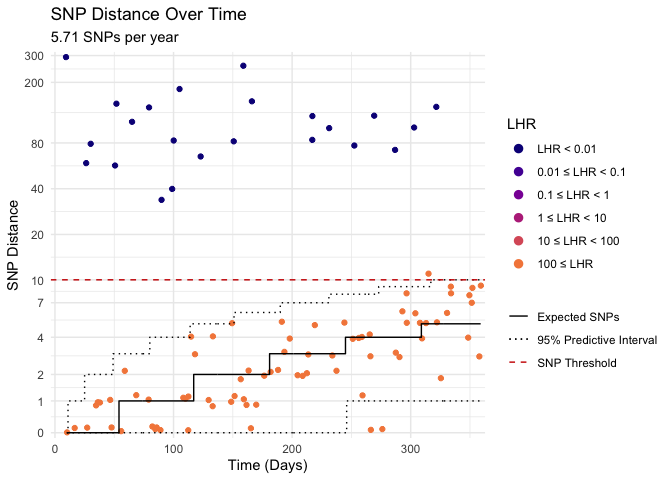
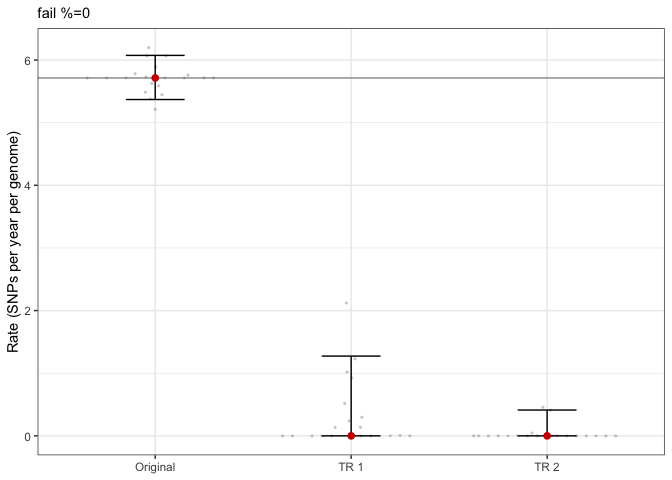
updated readme

diff --git a/README.md b/README.md
@@ -39,7 +39,89 @@ output, or from a distance matrix. Either provide an R object or
 filepath to the respective function and the output will be an R object
 ready for inputting into MxSure. These examples only show loading in one
 dataset for each method however a mixed and distant dataset is required
-for MxSure.
+for MxSure. The most practical thing to do is process all of your data
+with these functions and then subset the resulting dataframe into sample
+pairs that would be enriched for related strains (e.g. same person,
+transmission clusters of interest, same site etc.) and another that
+would be enriched for unrelated strains (e.g different people ideally
+geographically separated). This choice is left to the user.
+
+### distance matrix
+
+This function allows for a sampling date table to be added (linking
+sample ID’s to dates) which automates calculation of sampling time
+differences.
+
+note: this function does not allow for ‘sites considered’ or equivalent;
+this will need to be inputed manually if desired
+
+``` r
+distmat_example_path <- system.file("extdata", "example_distance_matrix.csv", package = "mxsure")
+sample_dates <- readr::read_csv(system.file("extdata", "example_sampling_dates.csv", package = "mxsure"))
+#> Rows: 30 Columns: 2
+#> ── Column specification ────────────────────────────────────────────────────────
+#> Delimiter: ","
+#> chr  (1): sample_id
+#> date (1): date
+#> 
+#> ℹ Use `spec()` to retrieve the full column specification for this data.
+#> ℹ Specify the column types or set `show_col_types = FALSE` to quiet this message.
+mxsure_input_distmat <-  mxsure_input_distmatrix(file_path=distmat_example_path, dates=sample_dates, dates_sample_col = "sample_id", dates_date_col = "date")
+head(mxsure_input_distmat)
+#>    sampleA sampleB snp_dist time_dist
+#>     <char>  <char>    <int>     <num>
+#> 1: sample2 sample1      467         6
+#> 2: sample3 sample1      183        12
+#> 3: sample4 sample1       18        18
+#> 4: sample5 sample1      199        24
+#> 5: sample6 sample1      430        30
+#> 6: sample7 sample1      310        36
+```
+
+### Phylogenetic Tree
+
+This function takes a phylogenetic tree and produces the required input
+for MxSure. Optionally a vector of tip dates can be included to automate
+calculation of sampling time differences and a vector of individual ID’s
+for each tip can be provided to identify which comparisons are from the
+same person. This potentially aides the subsetting required for MxSure
+to function.
+
+note: this function does not allow for ‘sites considered’ or equivalent;
+this will need to be inputed manually if desired
+
+``` r
+#loading example data provided with package
+tree_example_path <- system.file("extdata", "example_phylo_tree.tree", package = "mxsure")
+tip_dates <- readr::read_csv(system.file("extdata", "example_tip_dates.csv", package = "mxsure"))
+#> Rows: 200 Columns: 1
+#> ── Column specification ────────────────────────────────────────────────────────
+#> Delimiter: ","
+#> date (1): example_tipdates
+#> 
+#> ℹ Use `spec()` to retrieve the full column specification for this data.
+#> ℹ Specify the column types or set `show_col_types = FALSE` to quiet this message.
+tip_ids <- readr::read_csv(system.file("extdata", "example_tip_ids.csv", package = "mxsure"))
+#> Rows: 200 Columns: 1
+#> ── Column specification ────────────────────────────────────────────────────────
+#> Delimiter: ","
+#> dbl (1): example_tip_labels
+#> 
+#> ℹ Use `spec()` to retrieve the full column specification for this data.
+#> ℹ Specify the column types or set `show_col_types = FALSE` to quiet this message.
+
+#using function to ready data for input into mxsure
+mxsure_input_tree <-  mxsure_input_tree(file_path=tree_example_path, tip_dates = tip_dates, tip_cluster_ids = tip_ids)
+head(mxsure_input_tree)
+#>    sampleA sampleB snp_dist time_dist same_cluster
+#>     <char>  <char>    <num>     <num>       <lgcl>
+#> 1:    1.t2    1.t1        9        14         TRUE
+#> 2:    2.t2    1.t1      271        76        FALSE
+#> 3:    2.t1    1.t1      270       177        FALSE
+#> 4:    3.t1    1.t1      268        97        FALSE
+#> 5:    3.t2    1.t1      267        83        FALSE
+#> 6:    4.t2    1.t1      275        71        FALSE
+```
 
 ### TRACS distance output
 
@@ -102,35 +184,7 @@ head(mxsure_input_instrain)
 #> 6     6171         6 4138456
 ```
 
-### distance matrix
-
-note: this function does not allow for ‘sites considered’ or equivalent;
-this will need to be inputed manually
-
-``` r
-distmat_example_path <- system.file("extdata", "example_distance_matrix.csv", package = "mxsure")
-sample_dates <- readr::read_csv(system.file("extdata", "example_sampling_dates.csv", package = "mxsure"))
-#> Rows: 30 Columns: 2
-#> ── Column specification ────────────────────────────────────────────────────────
-#> Delimiter: ","
-#> chr  (1): sample_id
-#> date (1): date
-#> 
-#> ℹ Use `spec()` to retrieve the full column specification for this data.
-#> ℹ Specify the column types or set `show_col_types = FALSE` to quiet this message.
-mxsure_input_distmat <-  mxsure_input_distmatrix(file_path=distmat_example_path, dates=sample_dates, dates_sample_col = "sample_id", dates_date_col = "date")
-head(mxsure_input_distmat)
-#>    sampleA sampleB snp_dist time_dist
-#>     <char>  <char>    <int>     <num>
-#> 1: sample2 sample1      467         6
-#> 2: sample3 sample1      183        12
-#> 3: sample4 sample1       18        18
-#> 4: sample5 sample1      199        24
-#> 5: sample6 sample1      430        30
-#> 6: sample7 sample1      310        36
-```
-
-## Basic Operation
+# Basic Operation
 
 MxSure in an R package designed to estimate substitution rates and infer
 SNP thresholds from longitudinally collected pairwise SNP comparison
@@ -196,7 +250,7 @@ result
 #> # A tibble: 1 × 8
 #>   snp_threshold lambda     k intercept estimated_fp lambda_units   nb_size nb_mu
 #>           <dbl>  <dbl> <dbl>     <dbl>        <dbl> <chr>            <dbl> <dbl>
-#> 1            10   5.71 0.768    -0.146        0.002 SNPs per year…    4.07  125.
+#> 1            24   5.71 0.768    -0.146        0.013 SNPs per year…    4.07  125.
 ```
 
 Here lambda is the estimated substitution rate and k is the estimated
@@ -226,12 +280,83 @@ result_sites
 #> # A tibble: 1 × 12
 #>   snp_threshold     lambda     k intercept estimated_fp lambda_units convergence
 #>           <dbl>      <dbl> <dbl>     <dbl>        <dbl> <chr>              <int>
-#> 1            10 0.00000565 0.770   -0.0324        0.002 SNPs per ye…           0
+#> 1            24 0.00000565 0.770   -0.0324        0.013 SNPs per ye…           0
 #> # ℹ 5 more variables: message <chr>, iterations <int>, nb_size <dbl>,
 #> #   nb_mu <dbl>, lambda_per_genome <dbl>
 ```
 
-## Youden and Threshold Range
+# Phylo-aware model
+
+To account for bias from some degree of shared ancestry in related
+strains (not sampling at the evolutionary bottleneck) a phylo tree can
+be provided to use the phylo-aware model.
+
+## Loading in data
+
+This is the same as described in [Phylogenetic
+Tree](#phylogenetic-tree).
+
+``` r
+#loading example data provided with package
+tree_example_path <- system.file("extdata", "example_phylo_tree.tree", package = "mxsure")
+tip_dates <- readr::read_csv(system.file("extdata", "example_tip_dates.csv", package = "mxsure"))
+#> Rows: 200 Columns: 1
+#> ── Column specification ────────────────────────────────────────────────────────
+#> Delimiter: ","
+#> date (1): example_tipdates
+#> 
+#> ℹ Use `spec()` to retrieve the full column specification for this data.
+#> ℹ Specify the column types or set `show_col_types = FALSE` to quiet this message.
+tip_ids <- readr::read_csv(system.file("extdata", "example_tip_ids.csv", package = "mxsure"))
+#> Rows: 200 Columns: 1
+#> ── Column specification ────────────────────────────────────────────────────────
+#> Delimiter: ","
+#> dbl (1): example_tip_labels
+#> 
+#> ℹ Use `spec()` to retrieve the full column specification for this data.
+#> ℹ Specify the column types or set `show_col_types = FALSE` to quiet this message.
+
+#using function to ready data for input into mxsure
+mxsure_input_tree <-  mxsure_input_tree(file_path=tree_example_path, tip_dates = tip_dates, tip_cluster_ids = tip_ids)
+head(mxsure_input_tree)
+#>    sampleA sampleB snp_dist time_dist same_cluster
+#>     <char>  <char>    <num>     <num>       <lgcl>
+#> 1:    1.t2    1.t1        9        14         TRUE
+#> 2:    2.t2    1.t1      271        76        FALSE
+#> 3:    2.t1    1.t1      270       177        FALSE
+#> 4:    3.t1    1.t1      268        97        FALSE
+#> 5:    3.t2    1.t1      267        83        FALSE
+#> 6:    4.t2    1.t1      275        71        FALSE
+```
+
+## Running MxSure phylo-aware model
+
+We can use the `same_person` column to subset the data. It is required
+to include sample ID labels for each comparison in the mixed dataset to
+locate them on the tree with the inputs `sampleA` and `sampleB`.
+
+``` r
+mixed_dataset <- mxsure_input_tree[mxsure_input_tree$same_cluster]
+distant_dataset <- mxsure_input_tree[!mxsure_input_tree$same_cluster]
+tree <- ape::read.tree(tree_example_path)
+
+result_phylo <- mxsure_estimate(
+  mixed_snp_dist = mixed_dataset$snp_dist,
+  unrelated_snp_dist = distant_dataset$snp_dist ,
+  mixed_time_dist = mixed_dataset$time_dist,
+  tree = tree,
+  sampleA = mixed_dataset$sampleA,
+  sampleB = mixed_dataset$sampleB
+)
+
+result_phylo
+#> # A tibble: 1 × 9
+#>   snp_threshold lambda     k estimated_fp lambda_units alpha  beta nb_size nb_mu
+#>           <dbl>  <dbl> <dbl>        <dbl> <chr>        <dbl> <dbl>   <dbl> <dbl>
+#> 1             8   1.36 0.840      0.00116 SNPs per ye… 0.972 0.267    26.6  241.
+```
+
+# Youden and Threshold Range
 
 For threshold assessment it may be useful to compare the MxSure
 threshold with what would be inferred from the Youden method.
@@ -284,7 +409,7 @@ result$threshold_range
 #> 20  10.0        70        0.200     0.82
 ```
 
-## Confidence Intervals
+# Confidence Intervals
 
 Confidence intervals for substitution rate estimation are produced via
 bootstrapping. This can be computed faster with multi-threading using
@@ -300,14 +425,14 @@ ci <- mxsure_ci( mixed_snp_dist = mixed_data$snp_dist,
   )
 future::plan("future::sequential")
 ci$confidence_intervals
-#> # A tibble: 2 × 5
-#>   snp_threshold lambda     k intercept estimated_fp
-#>           <dbl>  <dbl> <dbl>     <dbl>        <dbl>
-#> 1             9   5.37 0.750    -0.159       0     
-#> 2            10   6.07 0.825    -0.130       0.0041
+#> # A tibble: 2 × 7
+#>   snp_threshold lambda     k intercept estimated_fp nb_size nb_mu
+#>           <dbl>  <dbl> <dbl>     <dbl>        <dbl>   <dbl> <dbl>
+#> 1          23.0   5.37 0.750    -0.159       0.011     3.77  122.
+#> 2          25.0   6.07 0.825    -0.130       0.0210    4.23  128.
 ```
 
-## Time Randomisation Test
+# Time Randomisation Test
 
 This is a test that validates there is temporal signal in the underlying
 data. It achieves this by randomly permuting the time column in the
@@ -334,7 +459,7 @@ future::plan("future::sequential")
 timerand$plot
 ```
 
-<img src="man/figures/README-unnamed-chunk-12-1.png" width="100%" />
+<img src="man/figures/README-unnamed-chunk-15-1.png" width="100%" />
 
 ``` r
 timerand$outcome
@@ -346,7 +471,7 @@ timerand$outcome
 #> #   perc_overlapping_lowci <dbl>, failure_perc <dbl>
 ```
 
-## Likelihood ratios, and SNP over Time plot
+# Likelihood ratios, and SNP over Time plot
 
 For each data point in the mixed dataset, after fitting, we can assess
 the likelihood that any is related or unrelated. This is achieved using
@@ -388,4 +513,4 @@ snp_over_time(mixed_snp_dist = mixed_data$snp_dist,
 #> (`geom_step()`).
 ```
 
-<img src="man/figures/README-unnamed-chunk-14-1.png" width="100%" />
+<img src="man/figures/README-unnamed-chunk-17-1.png" width="100%" />
